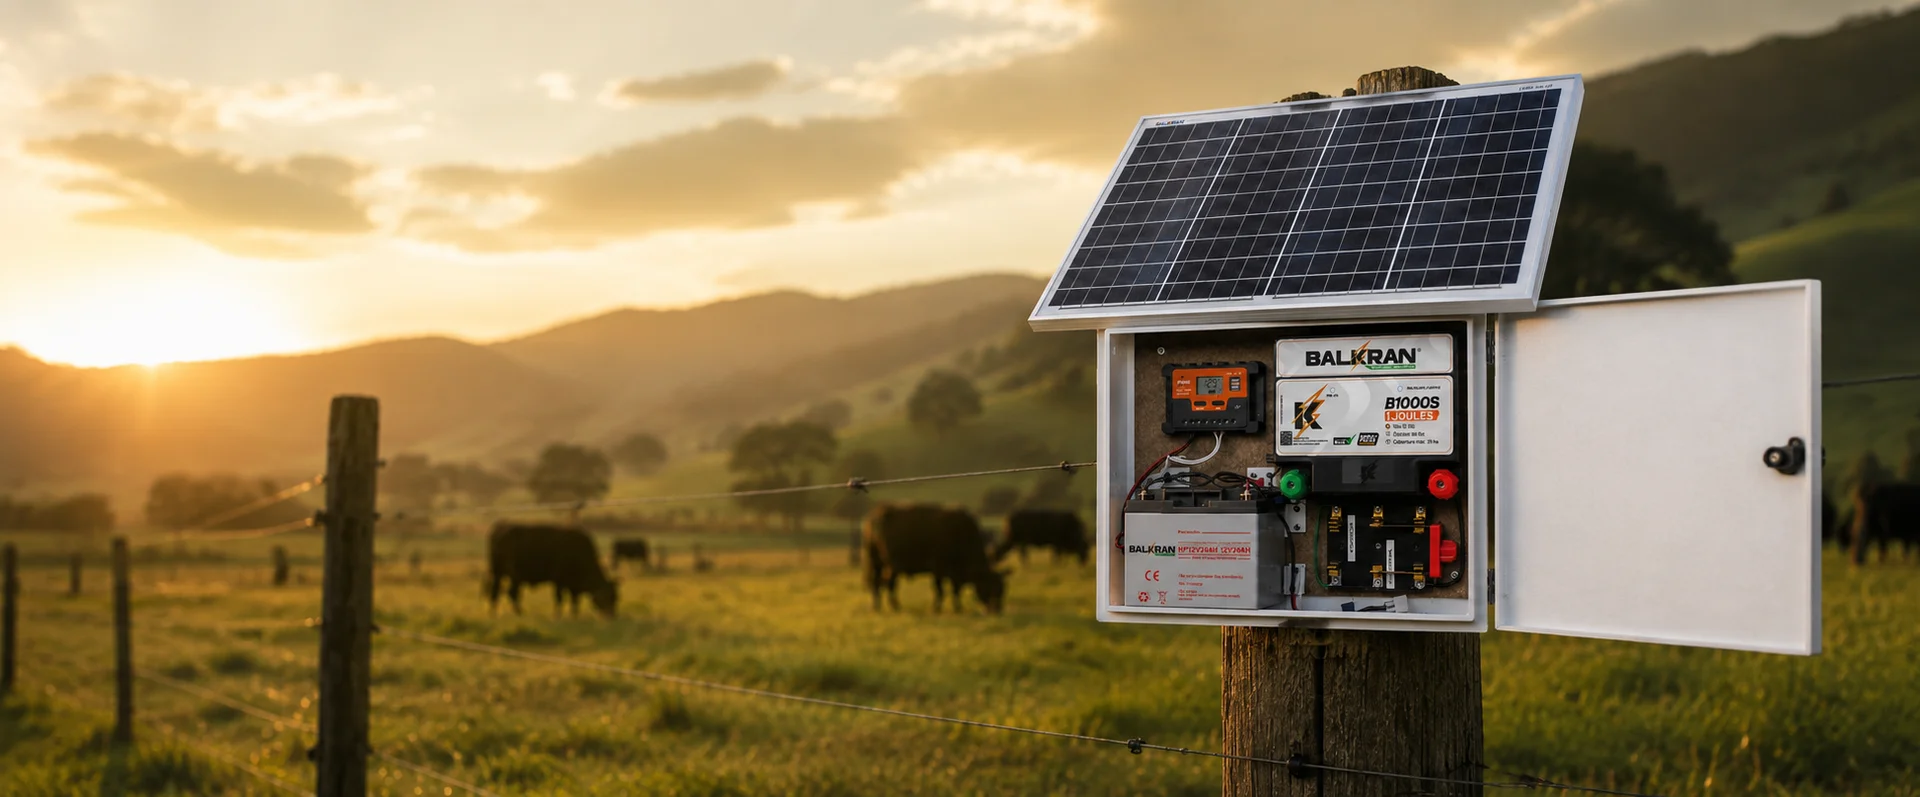
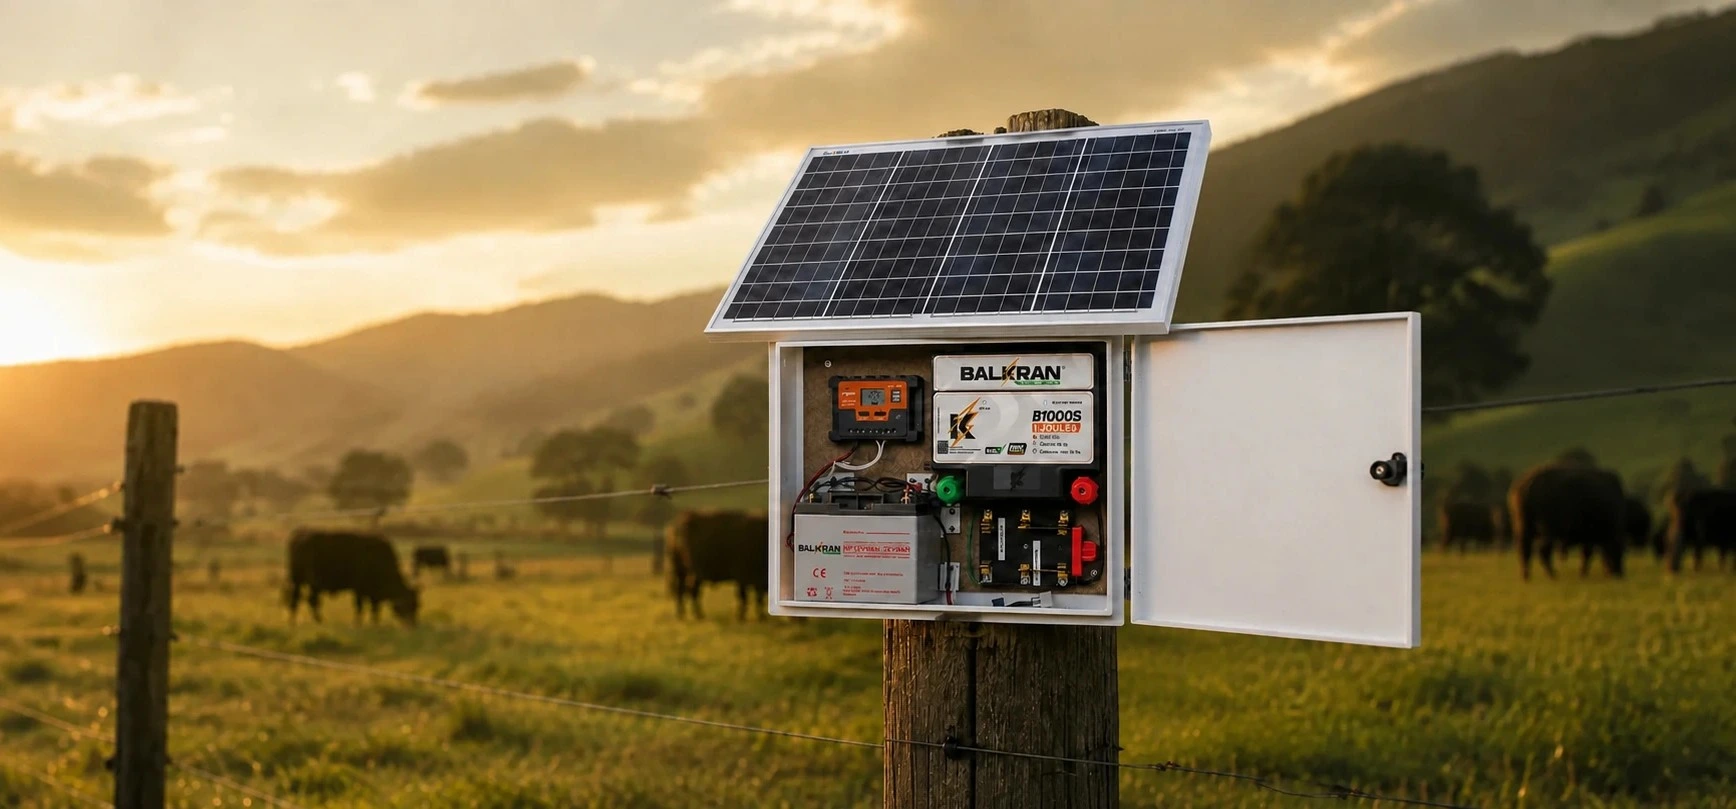
fix: cart and all WhatsApp links read phone from SiteConfig

diff --git a/components/ProductosListClient.tsx b/components/ProductosListClient.tsx
@@ -12,11 +12,14 @@ import {
 import { Product } from '@/lib/types';
 import { useLanguage } from '@/context/LanguageContext';
 import { useCart } from '@/context/CartContext';
+import { useSiteConfig } from '@/context/SiteConfigContext';
 import { formatLinea, formatCategoria, formatSubtitulo } from '@/lib/i18nHelpers';
 
 export default function ProductosListClient({ initialProducts }: { initialProducts: Product[] }) {
-  const { t, language } = useLanguage();
-  const { addItem } = useCart();
+const { t, language } = useLanguage();
+const { addItem } = useCart();
+const { get } = useSiteConfig();
+const whatsapp = get('whatsapp');
   const allProducts = useMemo(() => initialProducts, [initialProducts]);
 
   // Dynamic 4-Product Interactive Comparator State
@@ -364,7 +367,7 @@ export default function ProductosListClient({ initialProducts }: { initialProduc
               </a>
 
               <a
-                href="https://wa.me/573114508064?text=Hola%20Balkran%2C%20necesito%20asesor%C3%ADa"
+                href={`https://wa.me/${whatsapp}?text=Hola%20Balkran%2C%20necesito%20asesor%C3%ADa`}
                 target="_blank"
                 rel="noopener noreferrer"
                 className="inline-flex justify-center items-center gap-2 bg-black/60 hover:bg-black/80 border border-white/40 text-white font-display font-bold text-xs uppercase tracking-wider px-7 py-3.5 rounded-full backdrop-blur-sm transition-all"
@@ -1011,7 +1014,7 @@ export default function ProductosListClient({ initialProducts }: { initialProduc
                 </p>
                 <div className="pt-2">
                   <a
-                    href="https://wa.me/573114508064?text=Hola%20Balkran,%20necesito%20asesor%C3%ADa%20para%20elegir%20mi%20energizador"
+                    href={`https://wa.me/${whatsapp}?text=Hola%20Balkran,%20necesito%20asesor%C3%ADa%20para%20elegir%20mi%20energizador`}
                     target="_blank"
                     rel="noopener noreferrer"
                     className="inline-flex items-center gap-2 bg-[#ff5a00] hover:bg-orange-600 text-white font-display font-bold text-xs uppercase tracking-wider px-7 py-3 rounded-full shadow-lg transition-all"
@@ -1430,7 +1433,7 @@ export default function ProductosListClient({ initialProducts }: { initialProduc
 
             <div className="pt-2 space-y-2">
               <a
-                href="https://wa.me/573114508064?text=Hola%20Balkran,%20necesito%20una%20cotizaci%C3%B3n"
+                href={`https://wa.me/${whatsapp}?text=Hola%20Balkran,%20necesito%20una%20cotizaci%C3%B3n`}
                 target="_blank"
                 rel="noopener noreferrer"
                 className="inline-flex items-center gap-2 bg-[#ff5a00] hover:bg-orange-600 text-white font-display font-bold text-xs uppercase tracking-wider px-8 py-4 rounded-full shadow-lg transition-all"

diff --git a/app/page.tsx b/app/page.tsx
@@ -30,6 +30,7 @@ import { motion, useScroll, useTransform } from 'framer-motion';
 import { useEffect, useState, useRef } from 'react';
 import { fadeInUp, fadeIn, staggerContainer, cardReveal, viewport, withDelay } from '@/lib/animations';
 import { useLanguage } from '@/context/LanguageContext';
+import { useSiteConfig } from '@/context/SiteConfigContext';
 import BannerSlider from '@/components/BannerSlider';
 
 function KitSolarParallaxImage() {
@@ -142,6 +143,8 @@ function RenderSectorIcon({ sector }: { sector: string }) {
 
 export default function HomePage() {
   const { t, language } = useLanguage();
+  const { get } = useSiteConfig();
+  const whatsapp = get('whatsapp');
   const [activeFaq, setActiveFaq] = useState<number>(0);
   const [activeAppTab, setActiveAppTab] = useState<number>(0);
 
@@ -591,7 +594,7 @@ export default function HomePage() {
                 </Link>
 
                 <a
-                  href="https://wa.me/573114508064?text=Hola%20Balkran%2C%20quisiera%20recibir%20asesor%C3%ADa"
+                  href={`https://wa.me/${whatsapp}?text=Hola%20Balkran%2C%20quisiera%20recibir%20asesor%C3%ADa`}
                   target="_blank"
                   rel="noopener noreferrer"
                   className="inline-flex justify-center items-center gap-2 bg-black/40 hover:bg-black/60 border border-white/40 text-white font-display font-bold text-xs uppercase tracking-wider px-6 py-3.5 rounded-xl backdrop-blur-md transition-all active:scale-95 shadow-md"
@@ -1964,7 +1967,7 @@ export default function HomePage() {
 
             <div className="pt-2 space-y-2">
               <a
-                href="https://wa.me/573114508064?text=Hola%20Balkran,%20necesito%20una%20cotizaci%C3%B3n"
+                href={`https://wa.me/${whatsapp}?text=Hola%20Balkran,%20necesito%20una%20cotizaci%C3%B3n`}
                 target="_blank"
                 rel="noopener noreferrer"
                 className="inline-flex items-center gap-2 bg-[#ff5a00] hover:bg-orange-600 text-white font-display font-bold text-xs uppercase tracking-wider px-8 py-4 rounded-full shadow-lg transition-all"

diff --git a/components/ProductDetailClient.tsx b/components/ProductDetailClient.tsx
@@ -7,6 +7,7 @@ import { motion, AnimatePresence } from 'framer-motion';
 import { Product } from '@/lib/types';
 import { useLanguage } from '@/context/LanguageContext';
 import { useCart } from '@/context/CartContext';
+import { useSiteConfig } from '@/context/SiteConfigContext';
 import { formatLinea, formatCategoria, formatSubtitulo, formatNombreProducto, formatDescripcionProducto } from '@/lib/i18nHelpers';
 import {
   Zap,
@@ -52,8 +53,10 @@ export default function ProductDetailClient({
   relatedProducts,
   allProducts,
 }: ProductDetailClientProps) {
-  const { t, language } = useLanguage();
-  const { addItem } = useCart();
+const { t, language } = useLanguage();
+const { addItem } = useCart();
+const { get } = useSiteConfig();
+const whatsapp = get('whatsapp');
   const [quantity, setQuantity] = useState(1);
   const [selectedImageIndex, setSelectedImageIndex] = useState(0);
   const [addedToCart, setAddedToCart] = useState(false);
@@ -227,7 +230,7 @@ export default function ProductDetailClient({
       ? `Bonjour Balkran, je souhaite acheter ${quantity} unité(s) de ${product.nombre} (${formatLinea(product.linea, language)}) - ${product.precio}. Pouvez-vous me conseiller et établir un devis?`
       : `Hola Balkran, estoy interesado en comprar ${quantity} unidad(es) de ${product.nombre} (${product.linea}) - ${product.precio}. ¿Me pueden brindar asesoría y cotización?`;
   const whatsappMessage = encodeURIComponent(whatsappMsgText);
-  const whatsappUrl = `https://wa.me/573114508064?text=${whatsappMessage}`;
+  const whatsappUrl = `https://wa.me/${whatsapp}?text=${whatsappMessage}`;
 
   // FAQs data
   const faqs = [

diff --git a/components/CartDrawer.tsx b/components/CartDrawer.tsx
@@ -6,6 +6,7 @@ import Link from 'next/link';
 import { X, Trash2, ShoppingCart, Plus, Minus, ArrowRight, ShieldCheck, Truck } from 'lucide-react';
 import { motion, AnimatePresence } from 'framer-motion';
 import { useCart } from '@/context/CartContext';
+import { useSiteConfig } from '@/context/SiteConfigContext';
 
 export default function CartDrawer() {
   const {
@@ -18,6 +19,8 @@ export default function CartDrawer() {
     totalItems,
     totalPrice,
   } = useCart();
+  const { get } = useSiteConfig();
+  const whatsapp = get('whatsapp');
 
   const [nombre, setNombre] = useState('');
   const [telefono, setTelefono] = useState('');
@@ -61,7 +64,7 @@ export default function CartDrawer() {
     message += `¡Hola Balkran! Quisiera finalizar la compra de estos productos. Quedo atento a la disponibilidad y métodos de pago.`;
 
     const encodedMessage = encodeURIComponent(message);
-    const whatsappUrl = `https://wa.me/573218524676?text=${encodedMessage}`;
+    const whatsappUrl = `https://wa.me/${whatsapp}?text=${encodedMessage}`;
 
     setTimeout(() => {
       window.open(whatsappUrl, '_blank');
